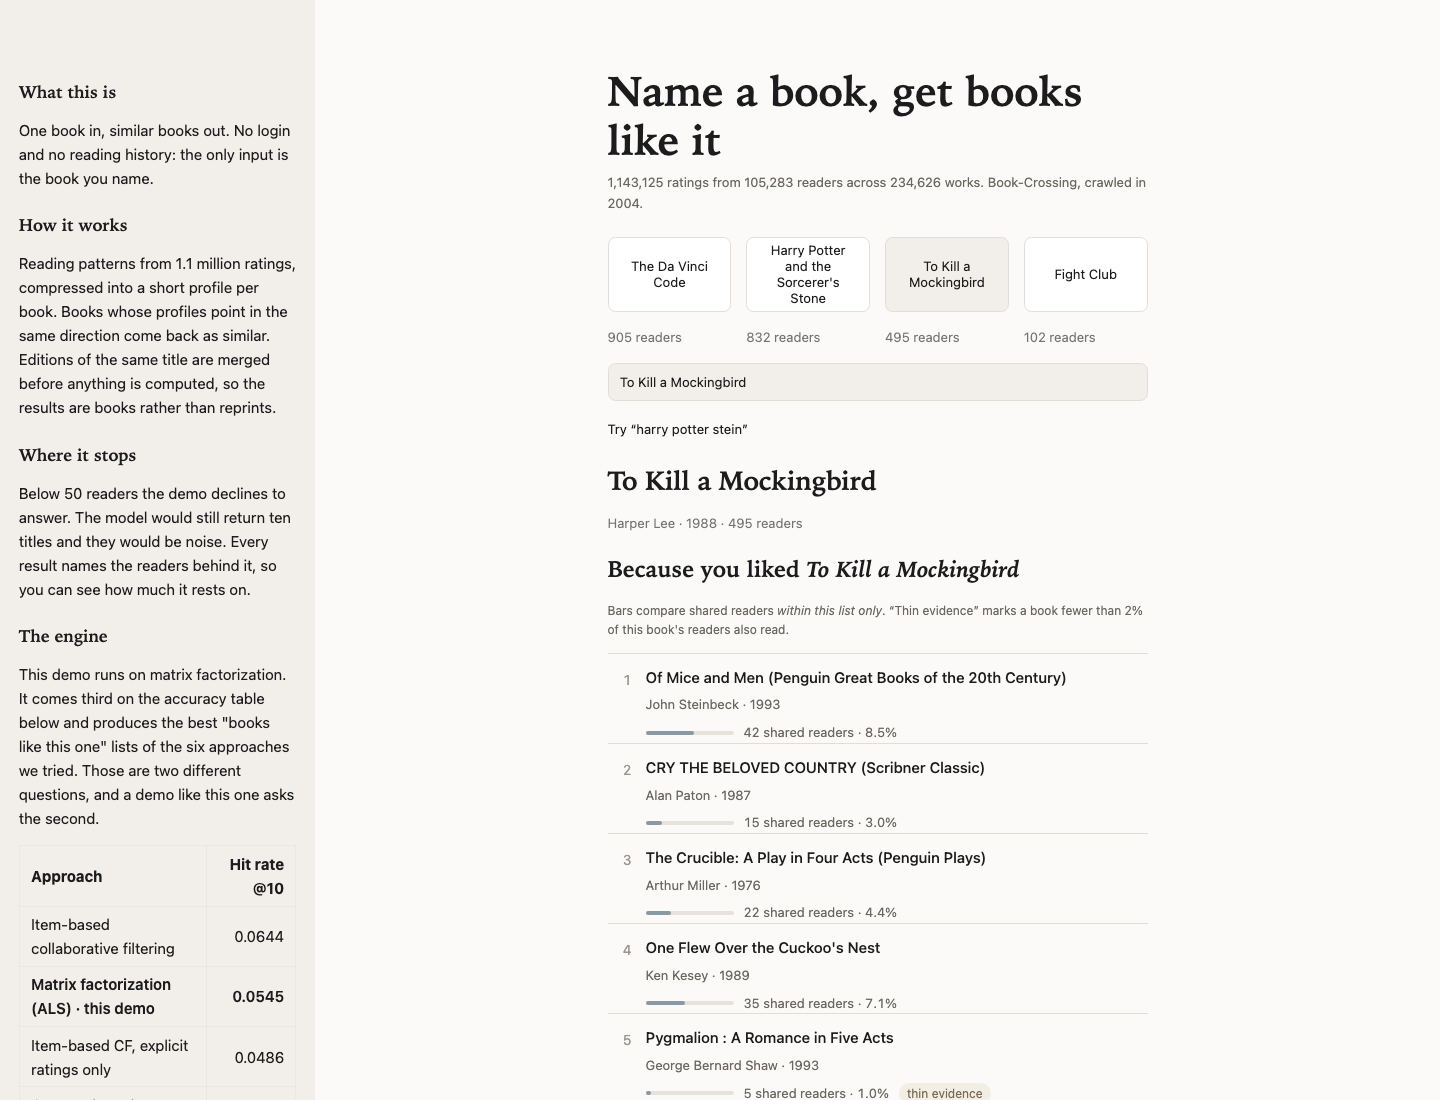
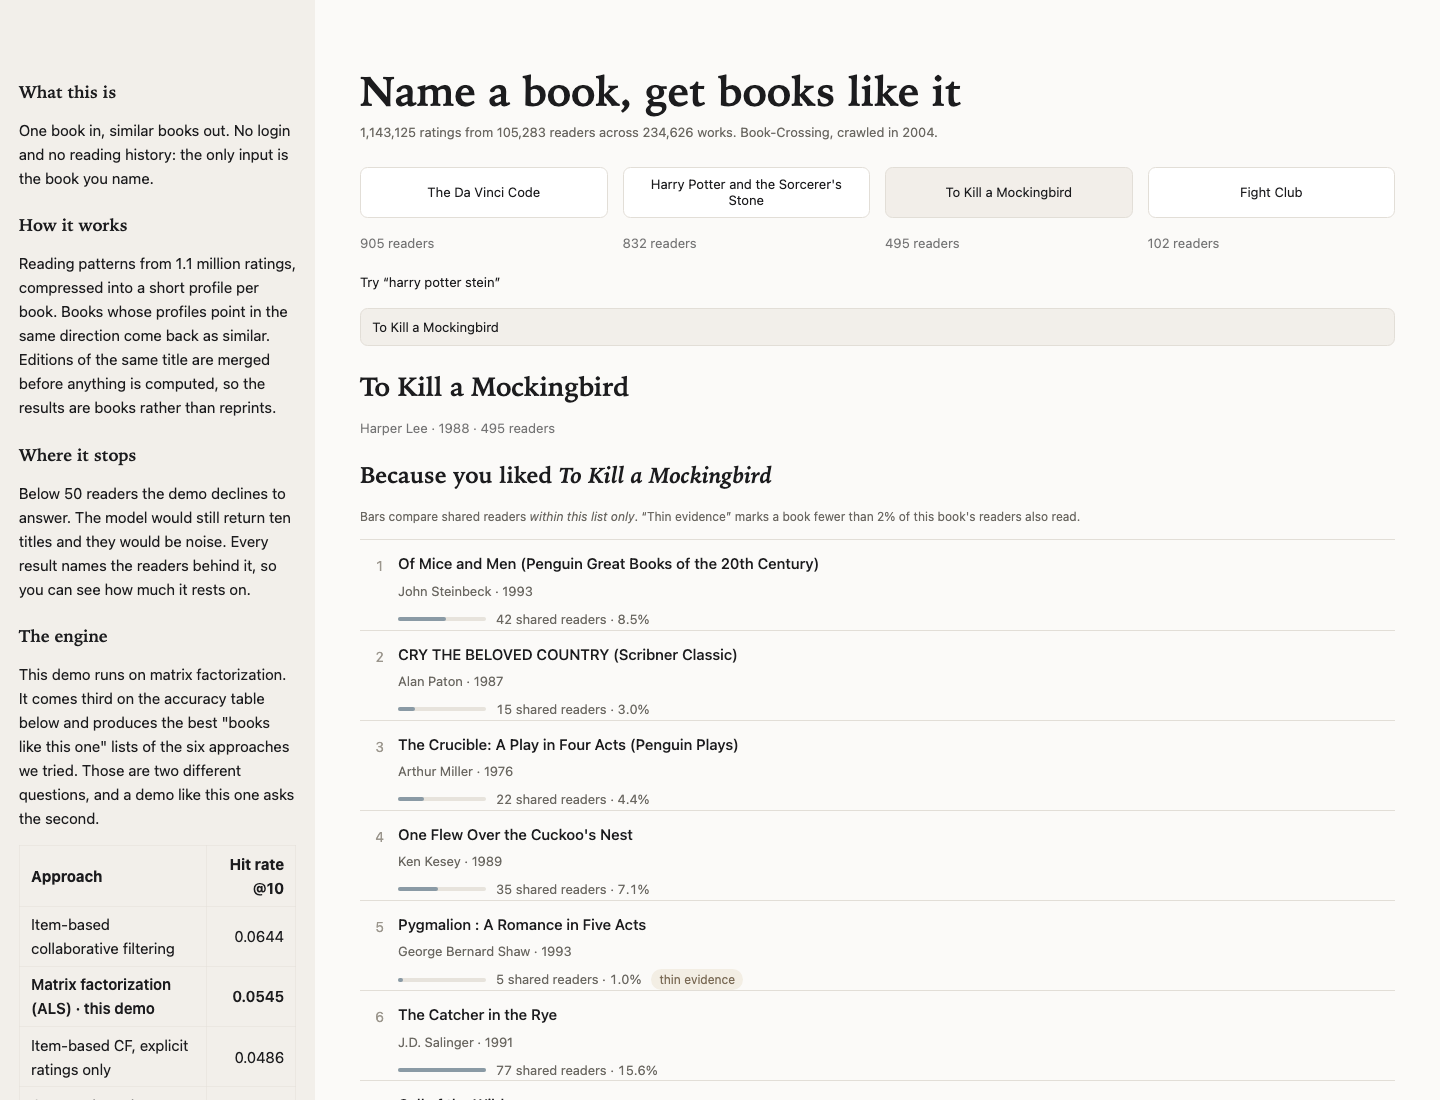
Main column fills the width
Helena's decision on seeing it run, reversing M15.2's 46rem measure. The
typographic argument for a bounded column was real, and so is the one against
it: the demo looked cramped with two thirds of a 1920px beamer empty.

The ~90-character DoD item goes with it and is marked withdrawn in
STRATEGY.md rather than quietly dropped. What carries the list without the
measure is the row itself — the evidence sits under the title in its own
block, so a wide viewport stretches the whitespace to the right of each row,
not the text inside it.

The button height drops from 5rem to a 3.4rem minimum, because at full width
the labels no longer wrap. Verified in the DOM at 1920 and 1440: four buttons
at 51px and the reader counts on one baseline at both.

Screenshots re-shot.

diff --git a/app/main.py b/app/main.py
@@ -67,17 +67,21 @@ EXAMPLE_QUERY = "harry potter stein"
 #: does most of the work.
 STYLE = """
 <style>
-  /* The measure. `layout="wide"` is kept for the sidebar, but body text at 1920px runs to
-     ~200 characters, which is the loudest "this is a script, not a product" signal there
-     is. 46rem lands the reason lines near 80 characters on the beamer. */
-  .block-container {max-width: 46rem; padding-top: 2.2rem;}
+  /* Full width, by Helena's decision on seeing it run (08.08.2026), reversing M15.2's
+     46rem measure. M15.2's argument was typographic — body text at 1920px runs long — and
+     the DoD item about a ~90-character measure goes with it; the deviation is recorded
+     under M15 in STRATEGY.md rather than quietly dropped. What keeps it readable at full
+     width is the row itself: the evidence line sits directly under the title in its own
+     block, so a wide viewport stretches the whitespace to the right of each row rather
+     than the text inside it. */
+  .block-container {max-width: none; padding-top: 2.2rem; padding-left: 3rem; padding-right: 3rem;}
   section[data-testid="stSidebar"] {min-width: 21rem;}
 
   /* The button row: the labels wrap to different numbers of lines, which put the reader
      counts on different baselines. A fixed height squares the row. Selected by testid —
      the emotion class names are generated per build and `div.stButton > button` does not
      match the current DOM, which is why the first attempt silently did nothing. */
-  [data-testid^="stBaseButton"] {min-height: 5rem; height: 5rem; white-space: normal;
+  [data-testid^="stBaseButton"] {min-height: 3.4rem; white-space: normal;
                                  line-height: 1.2; font-size: 14px;}
   /* ...except the tertiary "try this query" link, which is a line of text, not a target. */
   [data-testid="stBaseButton-tertiary"] {min-height: 0; height: auto; font-size: 13px;}
